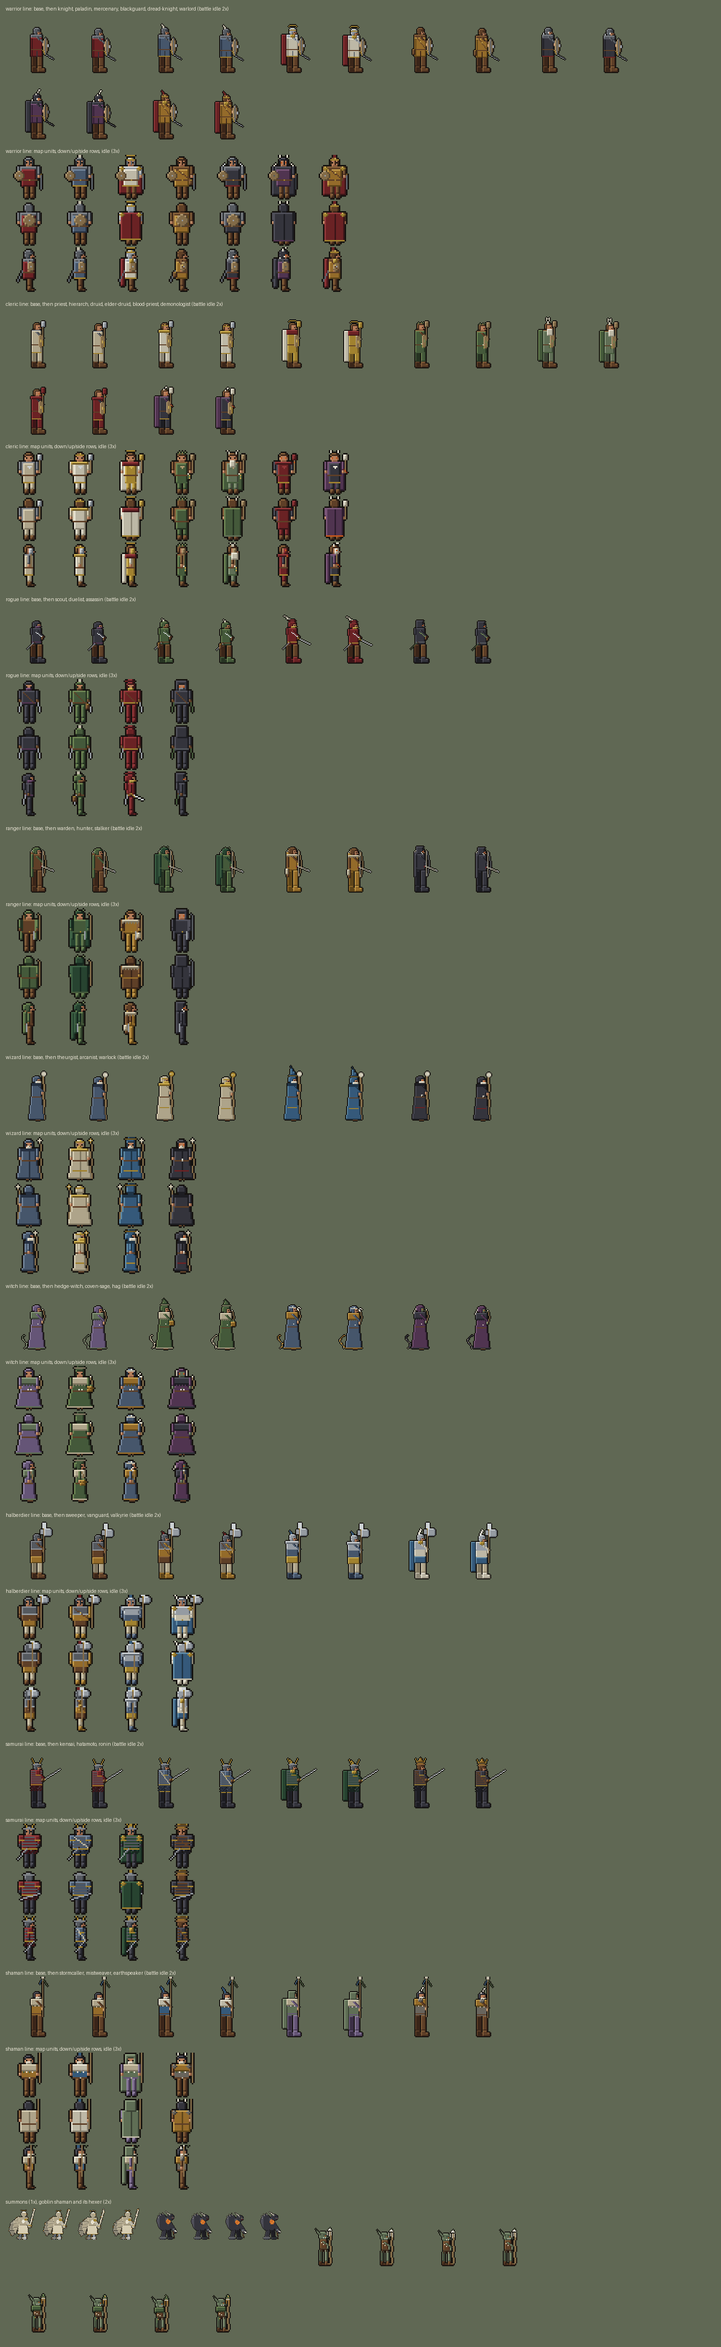
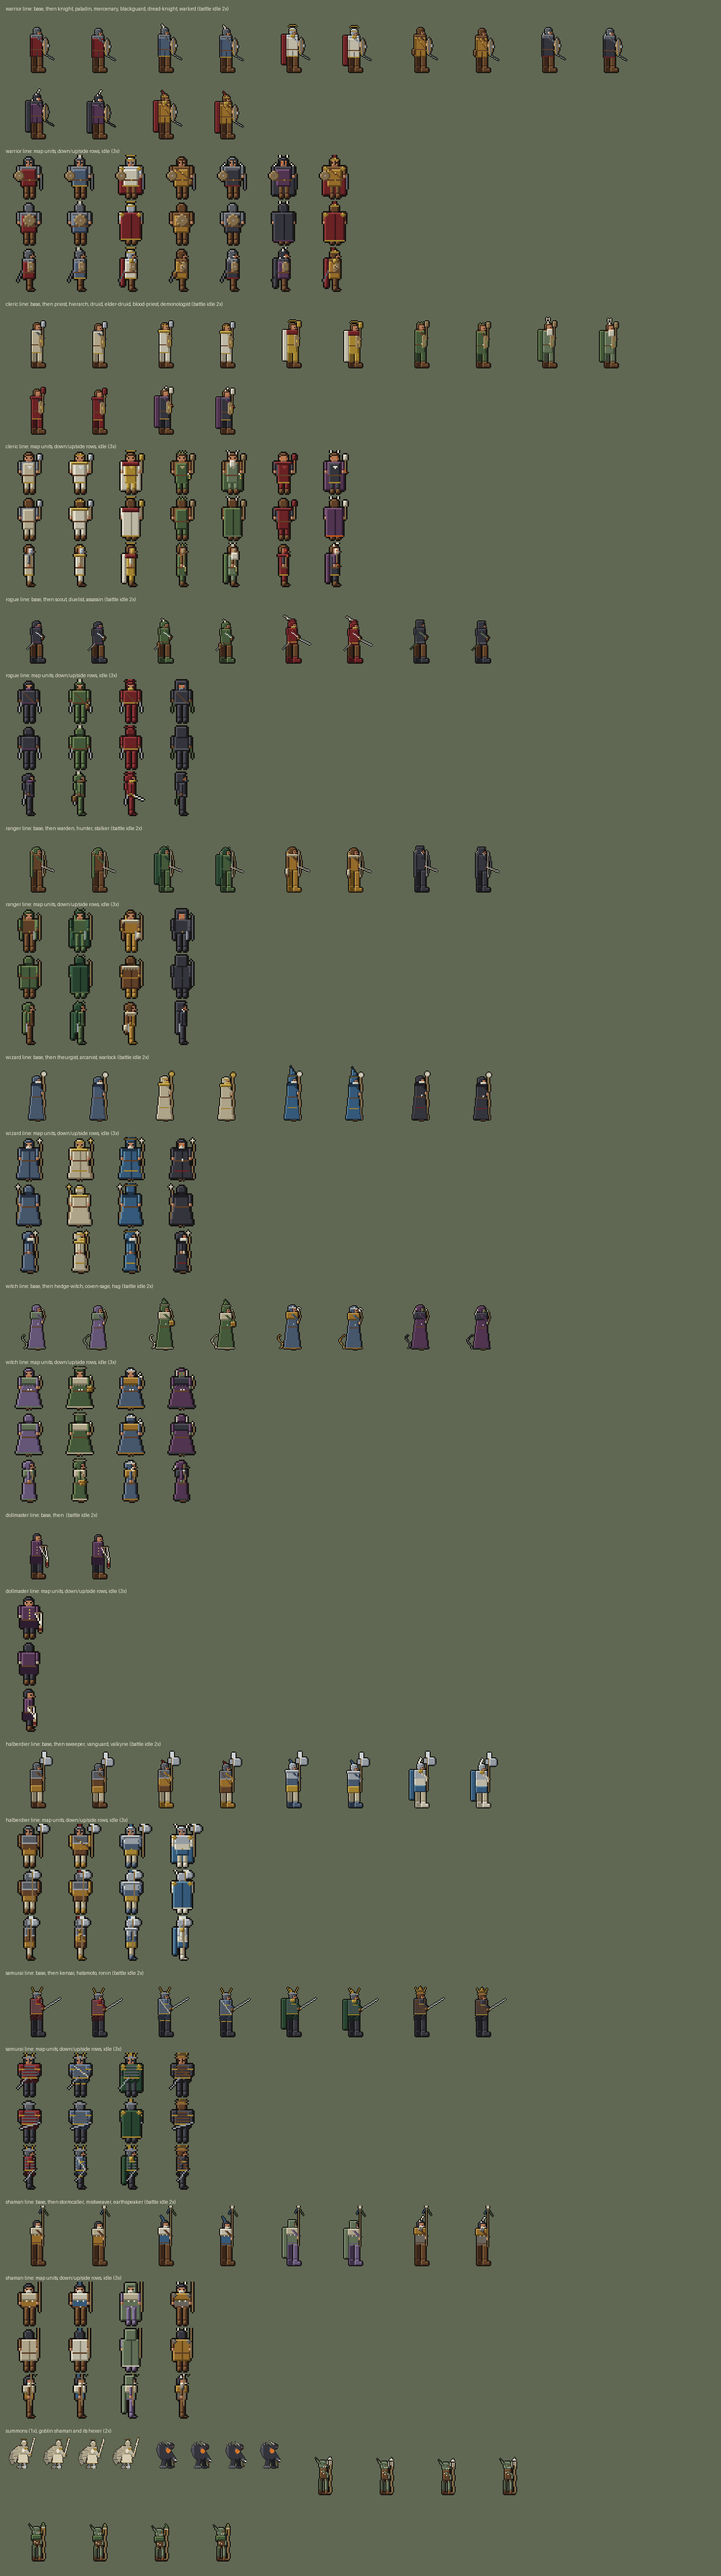
fix(sprites): draw base Doll Master art so every lineage has art
Master failed TestEveryLineageHasBaseArt once 39d and 40h both landed.

Claude-Session: https://claude.ai/code/session_012bWuVZpF8NXCwXs1zkYiTN

diff --git a/scripts/sprites/figures.py b/scripts/sprites/figures.py
@@ -54,6 +54,9 @@ CLASSES = {
                     wide=1, hair="charcoal"),
     "shaman": dict(trousers="leather", boots="leather", torso="leather", sleeve="leather",
                    hair="charcoal"),
+    # Phase 39d: a puppeteer in a long plum coat, working a wooden doll on strings.
+    "dollmaster": dict(trousers="charcoal", boots="leather", torso="plum", sleeve="plum",
+                       hair="charcoal"),
 }
 
 
@@ -628,7 +631,36 @@ def draw_shaman(r):
     cv.part(line(hx - 1, tip + r.px(1), hx - r.px(2), tip + r.px(4)), "water", flat="m")
 
 
+def draw_dollmaster(r):
+    """A long plum coat with brass buttons, a cross-bar control and a wooden doll on strings."""
+    S, cv, v, k = r.S, r.cv, r.view, r.k
+    r.legs()
+    r.torso("plum")
+    cv.part(rect(r.tx0 - 1, r.yhip - r.px(1), r.tx1 + 1, r.yhip + r.px(4)), "plum", flat="d")  # coat tails
+    if v != "up":
+        for y in range(r.ysh + r.px(2), r.yhip, max(2, r.px(2))):  # a row of brass buttons
+            cv.put(r.cx, y, "brass.l")
+    _belt(r, "leather", r.yhip - r.px(1))
+    r.arms("plum", glove="wool")
+    r.head(hair="charcoal")
+    if v == "up":
+        return
+    hx, hy = r.hand_r
+    bar = hy - r.px(3)
+    cv.part({(x, bar) for x in range(hx - r.px(2), hx + r.px(3))}, "wood", flat="m")  # control bar
+    cv.part({(hx, y) for y in range(bar, hy + 1)}, "wood", flat="m")
+    # The doll hangs below and beside the hand: head, body, two legs.
+    dx = hx + r.px(2) if v == "down" else hx + r.px(3)
+    dy = min(hy + r.px(6), S.W - r.px(5) - 2)
+    for sx in (hx - r.px(2), hx + r.px(2)):  # strings from the bar's ends
+        cv.part(line(sx, bar + 1, dx, dy - 1), "bone", flat="l")
+    cv.part(rect(dx - 1, dy, dx, dy + 1), "wood", flat="l")  # head
+    cv.part(rect(dx - 1, dy + 2, dx, dy + r.px(3)), "oxblood", flat="m")  # body
+    cv.part({(dx - 1, dy + r.px(3) + 1), (dx, dy + r.px(3) + 1)}, "wood", flat="m")  # legs
+
+
 DRAWERS = {
+    "dollmaster": draw_dollmaster,
     "halberdier": draw_halberdier, "samurai": draw_samurai, "shaman": draw_shaman,
     "warrior": draw_warrior, "rogue": draw_rogue, "ranger": draw_ranger,
     "cleric": draw_cleric, "wizard": draw_wizard, "witch": draw_witch,

diff --git a/scripts/sprites/preview.py b/scripts/sprites/preview.py
@@ -169,7 +169,7 @@ def contact_sheet_s5(out, dest):
             row_h = max(row_h, big.height)
         y += row_h + gap + 6
 
-    for lineage in ("warrior", "cleric", "rogue", "ranger", "wizard", "witch", "halberdier", "samurai", "shaman"):
+    for lineage in ("warrior", "cleric", "rogue", "ranger", "wizard", "witch", "dollmaster", "halberdier", "samurai", "shaman"):
         ids = [c for c in promoted.CLASS_IDS if promoted.LINEAGE[c] == lineage]
         put_row(f"{lineage} line: base, then " + ", ".join(ids) + " (battle idle 2x)",
                 [(_load(out, f"battle/units/{i}/idle.png").crop((0, 0, 128, 64)), 2) for i in [lineage] + ids])

diff --git a/scripts/sprites/generate.py b/scripts/sprites/generate.py
@@ -34,7 +34,7 @@ DEFAULT_OUT = os.path.join(
     "_datafiles", "html", "public", "static", "sprites")
 
 BASE_CLASSES = ["warrior", "rogue", "ranger", "cleric", "wizard", "witch"]
-NEUTRAL_LINEAGES = ["halberdier", "samurai", "shaman"]
+NEUTRAL_LINEAGES = ["dollmaster", "halberdier", "samurai", "shaman"]
 MAP_UNITS = BASE_CLASSES + ["adventurer"] + NEUTRAL_LINEAGES
 DIRECTIONS = ["down", "up", "side"]
 

diff --git a/scripts/sprites/roster.py b/scripts/sprites/roster.py
@@ -16,7 +16,7 @@ FRAME = {"S": 48, "M": 64, "L": 72, "XL": 96}
 DRAW = {"L": 96, "XL": 128}
 
 CLASS_IDS = ["warrior", "rogue", "ranger", "cleric", "wizard", "witch", "adventurer",
-             "halberdier", "samurai", "shaman"]
+             "dollmaster", "halberdier", "samurai", "shaman"]
 
 
 class Unit:

diff --git a/docs/PROJECT_STATUS.md b/docs/PROJECT_STATUS.md
@@ -256,7 +256,7 @@ Follow-ups: the Druid itself trails the Priest and even an unpromoted cleric
 in the boss mirror (10-40% vs 37-47%), and Barkskin takes most idle turns;
 a "Druid tuning" pass belongs with 39i or a small phase.
 
-**Phase 37d reviewed and merged via [PR #67](https://github.com/Robinsond76/ashveil-gomud/pull/67) (2026-10-06, Opus review thread).** Review checked that each fix is real isolation, not masking: the event queue is cleared (listeners untouched), the world and data path are reset per test, and nothing was skipped or disabled. Agreed: the Warlord Relentless window (6 to 12 rounds) still asserts the Relentless line fires once the knocked-down foe stands; it only gives the foe more rounds to get up. Agreed: the stderr default logger is safe in production (`main.go` and `reset-admin-pw` still call `SetupLogger` first). Fixed in review: (1) a shuffled race run caught `SetupLogger` swapping the logger while `TestTypedInputNeverTakesACombatCause`'s input worker was still logging its stop line; the logger is now an `atomic.Pointer` (so a worker logging never races a setup), and that test waits for its worker to stop (regression `TestLoggingNeverRacesSetupLogger`); (2) `TestLeadrootCutsPhysicalDamageByFifteenPercent` (43b, arrived in the master merge) never loaded its own buff and weapon specs, so it failed alone and passed only after another poison test; it now calls `poisonSpecs`. `modules/company` passed both full shuffled race runs in review, so no follow-up is open for it; `TestCombatEventStreamThroughTheRealRound` stays watched. UI check: test-only phase, nothing player-facing. Verification: master merged in, `make generate`, `make validate`, `make js-lint`, two full `go test -race -shuffle=on ./...` runs, and the fixed packages again shuffled.
+**Phase 37d reviewed and merged via [PR #67](https://github.com/Robinsond76/ashveil-gomud/pull/67) (2026-10-06, Opus review thread).** Review checked that each fix is real isolation, not masking: the event queue is cleared (listeners untouched), the world and data path are reset per test, and nothing was skipped or disabled. Agreed: the Warlord Relentless window (6 to 12 rounds) still asserts the Relentless line fires once the knocked-down foe stands; it only gives the foe more rounds to get up. Agreed: the stderr default logger is safe in production (`main.go` and `reset-admin-pw` still call `SetupLogger` first). Fixed in review: (1) a shuffled race run caught `SetupLogger` swapping the logger while `TestTypedInputNeverTakesACombatCause`'s input worker was still logging its stop line; the logger is now an `atomic.Pointer` (so a worker logging never races a setup), and that test waits for its worker to stop (regression `TestLoggingNeverRacesSetupLogger`); (2) `TestLeadrootCutsPhysicalDamageByFifteenPercent` (43b, arrived in the master merge) never loaded its own buff and weapon specs, so it failed alone and passed only after another poison test; it now calls `poisonSpecs`; (3) master was red on `TestEveryLineageHasBaseArt` (39d added the Doll Master lineage, 40h's test wants base art for every lineage), so review drew a base Doll Master figure (plum coat, cross-bar control, a wooden doll on strings; map views and battle idle) through `make sprites`; it stays a candidate for the later art pass. The Relentless test (also reported by the 39f review) passed 60 of 60 at the 12-round window. `modules/company` passed both full shuffled race runs in review, so no follow-up is open for it; `TestCombatEventStreamThroughTheRealRound` stays watched. UI check: test-only phase, nothing player-facing. Verification: master merged in, `make generate`, `make validate`, `make js-lint`, full `go test -race -shuffle=on ./...` runs (the last one after the final master merge), and the fixed packages again shuffled.
 
 **Phase 37d built: test isolation (2026-10-06):** shuffled runs (`go test -shuffle=on`) of every package except `modules/company` now pass repeatedly; each failure was shared state, fixed at its cause, with no test skipped or disabled.
 (1) Event queue leaks: the queue is global, so events an earlier test queued and never processed reached later tests' listeners (extra messages, deaths and arrivals). New `events.ClearQueueForTest`; tests that register a listener call a per-package `freshEvents(t)` first and at cleanup (`usercommands`, `mobcommands`, `expedition`, `camping`, `company`, `hooks`, `gathering`, `gmcp`, `death`, `archetype` and others). This was `TestSpawnLootRollsAnItemIntoTheRoom`, `TestAttackOnAWaitingGroupIsRefused`-style extras, `TestSuicidePendingGoesStraightToRespawn`, the camping raid and theft tests, and the practice and drop tests.
